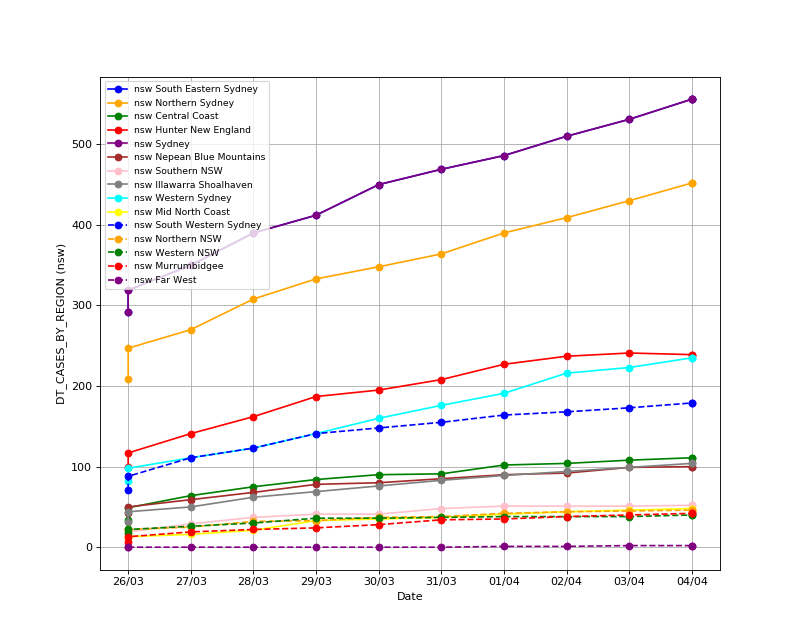
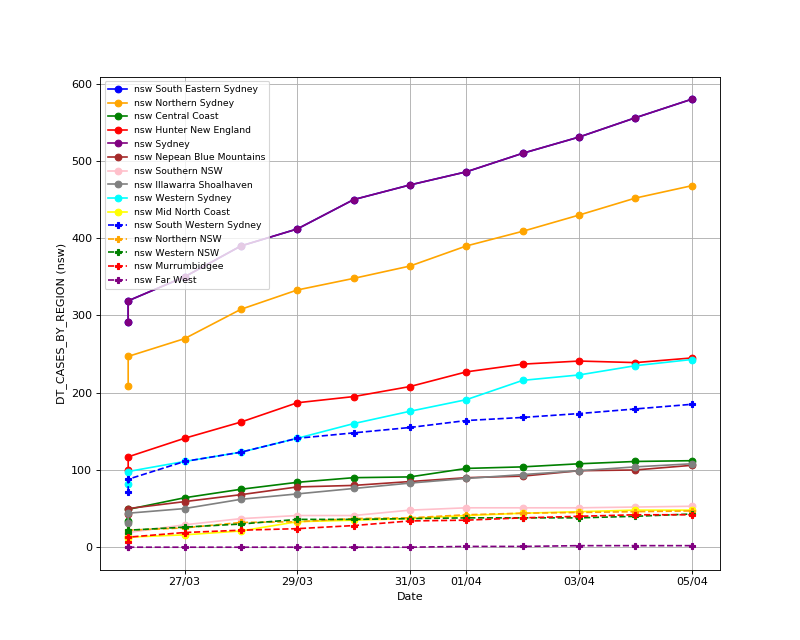
updated graphs

diff --git a/output_graphs/output_graphs.py b/output_graphs/output_graphs.py
@@ -73,6 +73,12 @@ STYLES = [
     '-.',
     ':'
 ]
+MARKERS = [
+    'o',
+    'P',
+    '.',
+    'X'
+]
 
 
 def output_graph(datatype,
@@ -97,7 +103,7 @@ def output_graph(datatype,
             X, Y,
             color=COLORS[x % len(COLORS)],
             label=k,
-            marker='o',
+            marker=MARKERS[x // len(COLORS)],
             linestyle=STYLES[x // len(COLORS)]
         )
 
